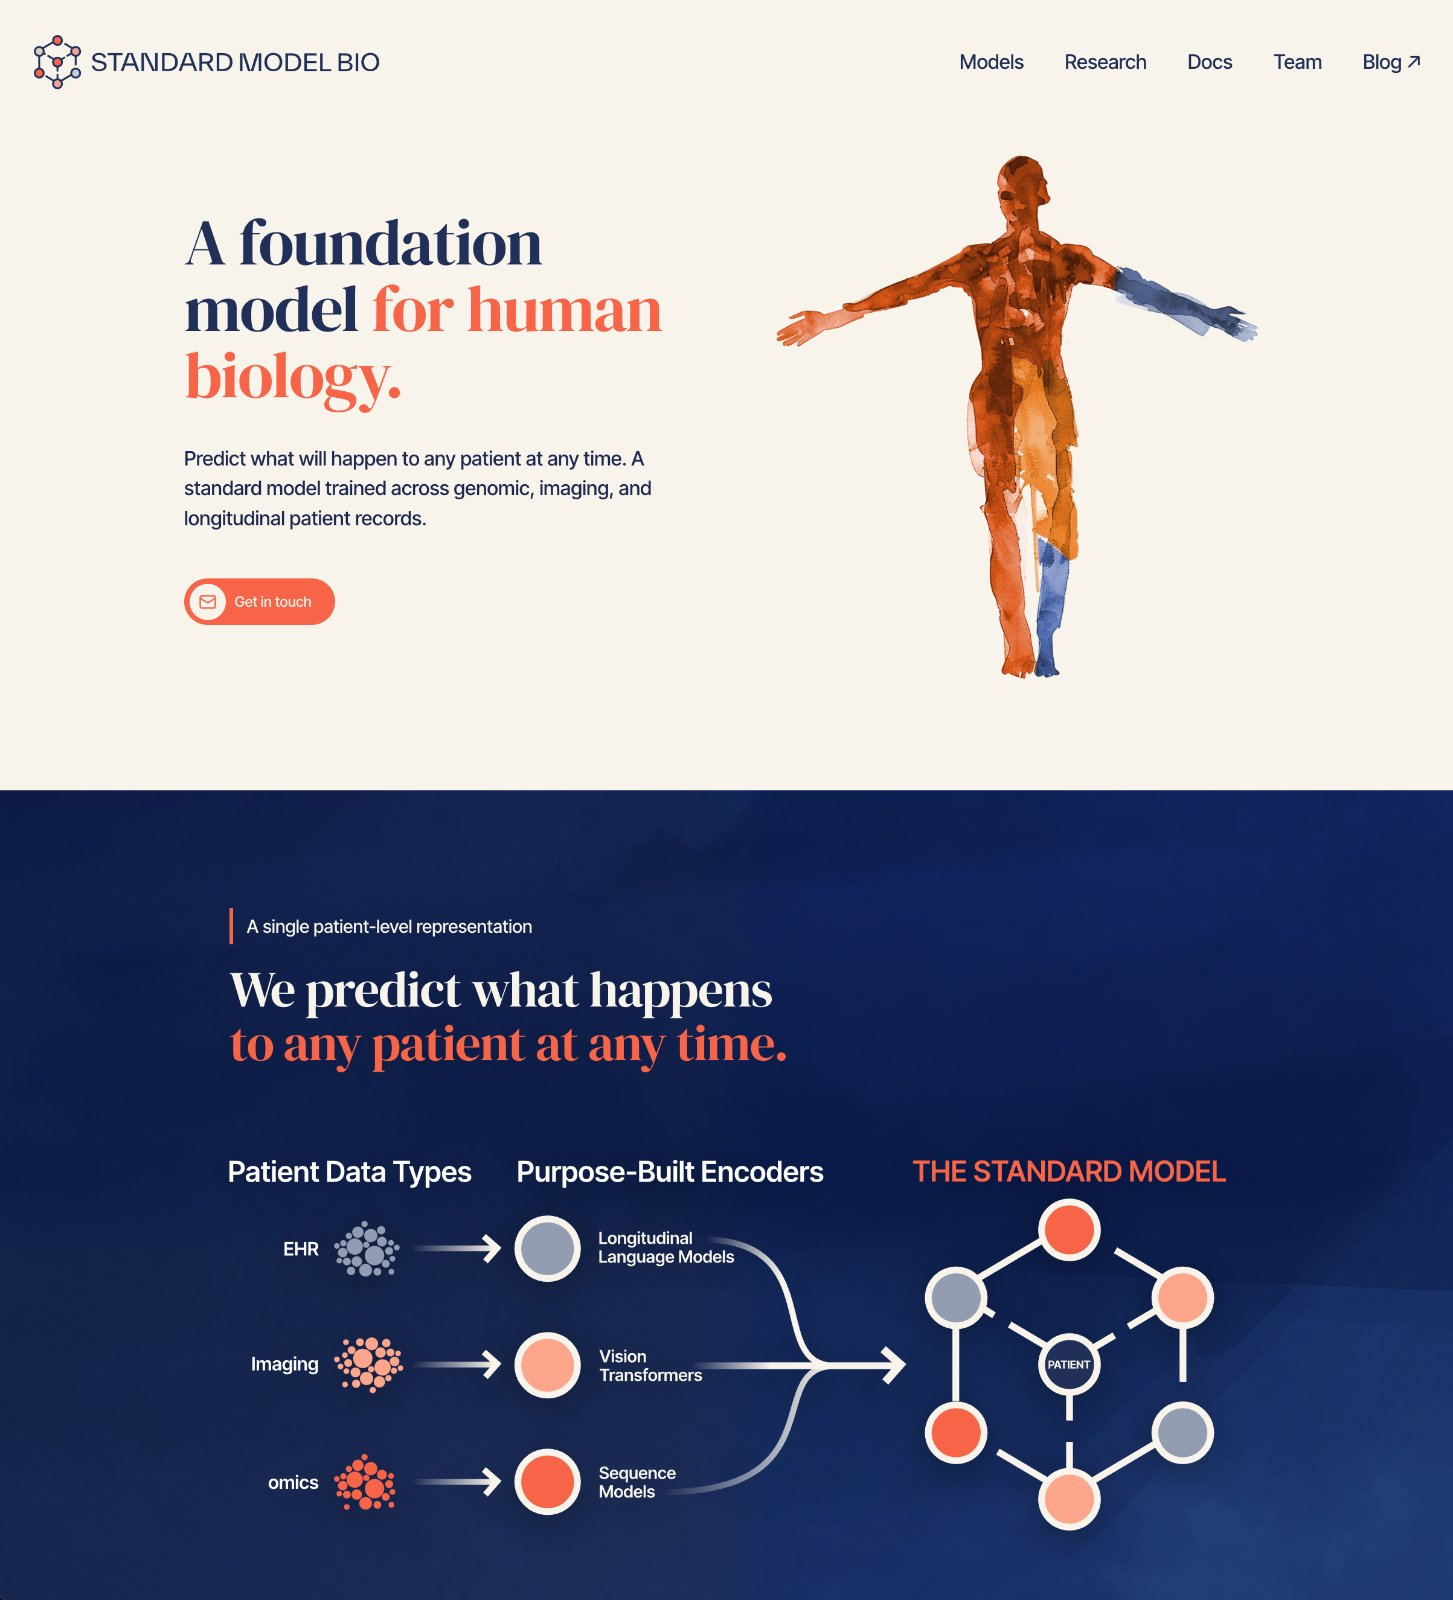
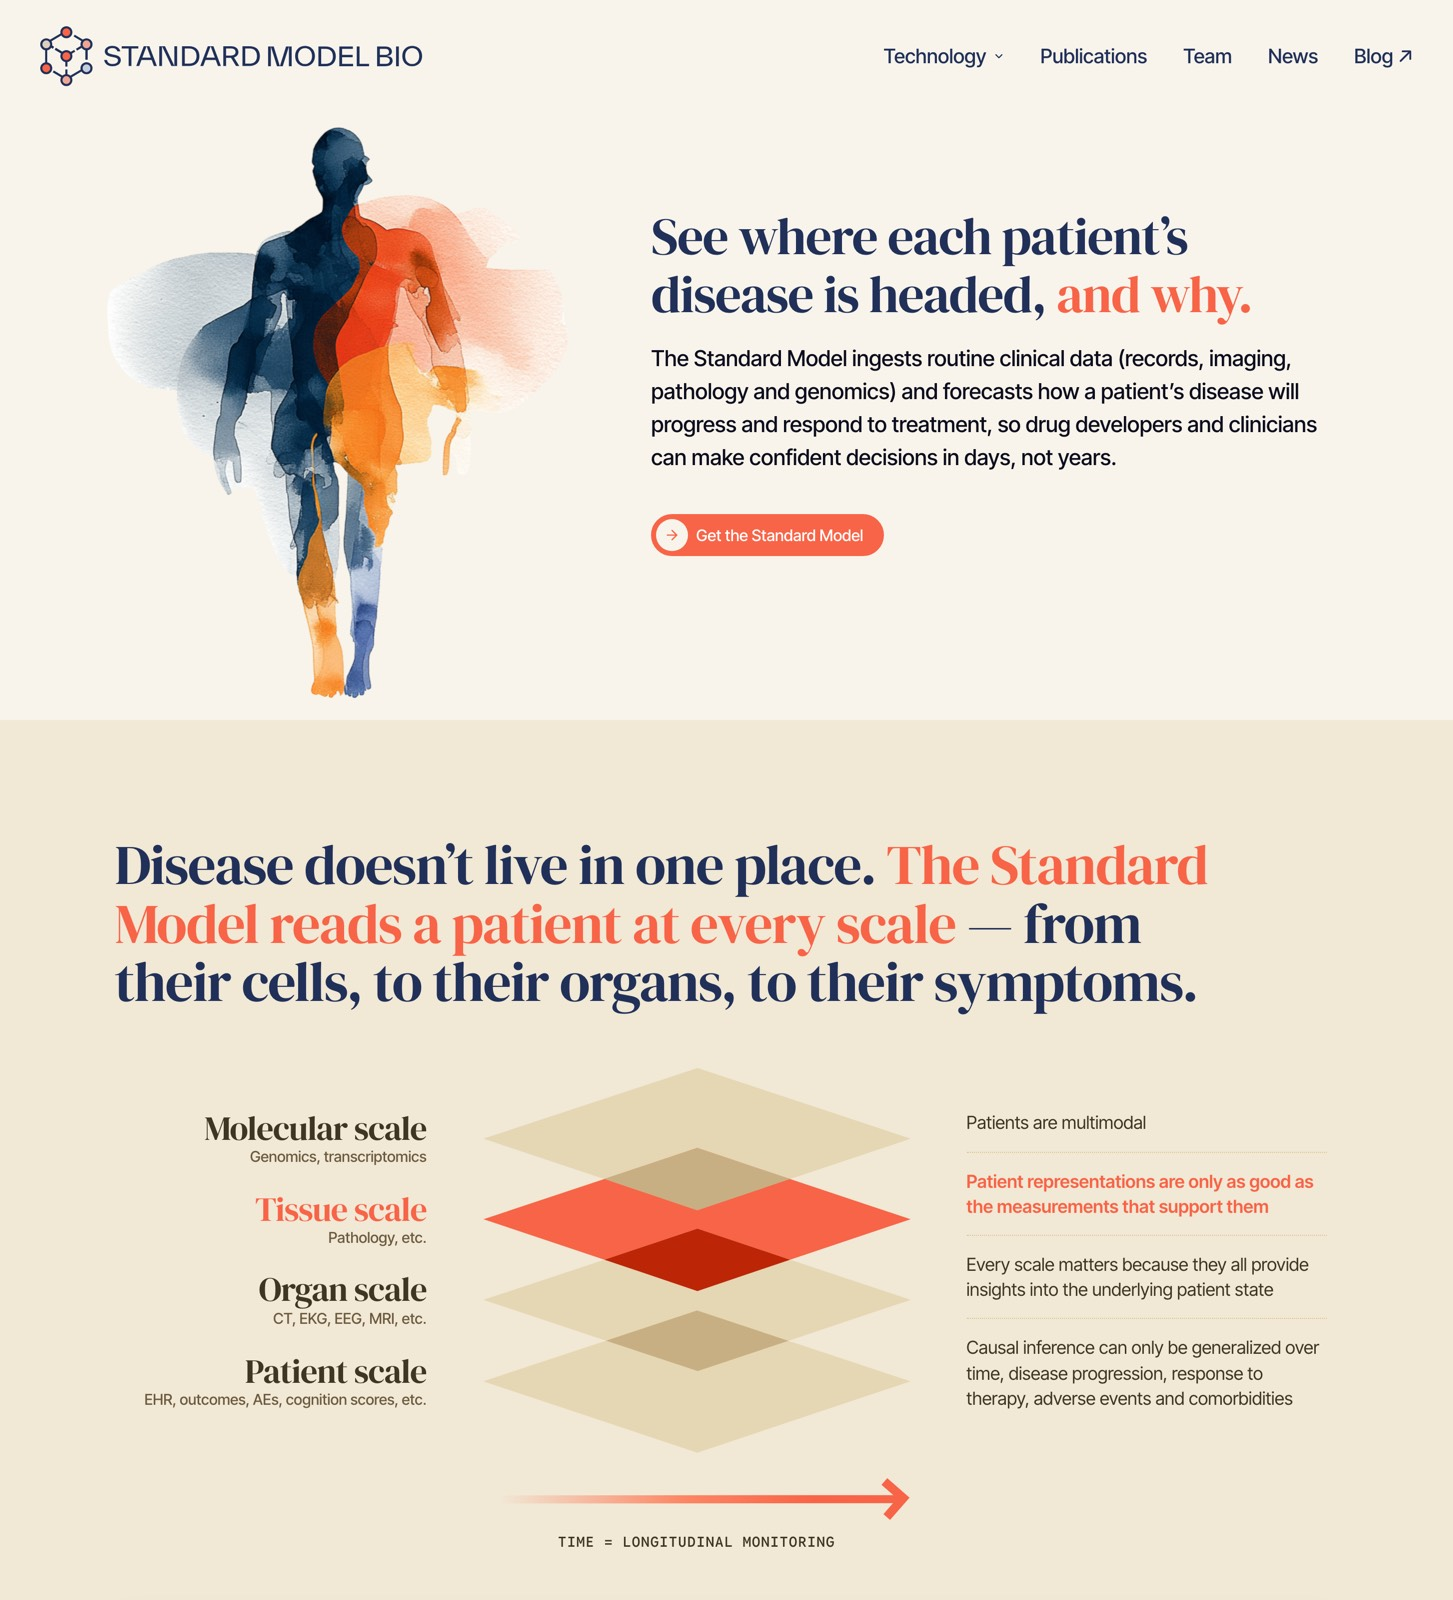
Refresh the website section with current standardmodel.bio screens
Replaces the five web-0*.jpg captures, which still showed the earlier
version of the site, with fresh 1453x1600 grabs of the live pages:
homepage, Standard Model V-2, TrialFront, news, team. Tile background
colors resampled to match.

Expands the blurb from one paragraph to three while keeping the
"From a Wix placeholder to a living flagship" arc — now covering the
growth in information architecture and UX, the CSS-animated inline SVG
diagrams, and the narrated film in its custom player.

diff --git a/standardmodel.html b/standardmodel.html
@@ -434,28 +434,32 @@ x-dc{display:none!important}
             <div data-dc-tpl="305" style="font-family: var(--f-mono); font-size: 15px; font-weight: 500; letter-spacing: 0.14em; text-transform: uppercase; color: var(--fg-mute); margin-bottom: 14px;"><span class="sc-interp">The Website</span></div>
             <h2 data-dc-tpl="306" style="margin: 0px; font-family: var(--f-head); font-weight: 600; font-size: clamp(24px,3vw,36px); line-height: 1.08; letter-spacing: -0.025em; color: var(--fg); text-wrap: pretty;"><span class="sc-interp">From a Wix placeholder to a living flagship.</span></h2>
             
-              <p data-dc-tpl="308" style="margin: 14px 0px 0px; font-size: 16px; line-height: 1.6; color: var(--fg-dim); text-wrap: pretty;"><span class="sc-interp">The first site was an off-the-shelf Wix template — enough to point investors somewhere real, but generic and unmistakably not the brand. I redesigned it screen by screen in Figma, folding in the identity — the molecular visuals, the full palette, the custom icon set — then moved from those designs into build with Claude Code. The site is a living document, not a hand-off: it evolves at the pace of the science while holding brand fidelity on every release.</span></p>
+              <p data-dc-tpl="308" style="margin: 14px 0px 0px; font-size: 16px; line-height: 1.6; color: var(--fg-dim); text-wrap: pretty;"><span class="sc-interp">The first site was an off-the-shelf Wix template — enough to point investors somewhere real, but generic and unmistakably not the brand. I redesigned it screen by screen in Figma, folding in the identity — the molecular visuals, the full palette, the custom icon set — then moved from those designs into build with Claude Code.</span></p>
+            
+              <p data-dc-tpl="308" style="margin: 14px 0px 0px; font-size: 16px; line-height: 1.6; color: var(--fg-dim); text-wrap: pretty;"><span class="sc-interp">It hasn't stopped growing since. A handful of marketing pages became a site with real architecture: a technology section for the model itself, a product section for TrialFront, an indexed publications library, a news and events feed, and team pages — held together by a navigation with dropdowns on desktop and a proper menu on small screens. I reworked the UX and UI around that expansion rather than bolting new pages onto the original layout, so the company can keep adding without the structure giving way.</span></p>
+            
+              <p data-dc-tpl="308" style="margin: 14px 0px 0px; font-size: 16px; line-height: 1.6; color: var(--fg-dim); text-wrap: pretty;"><span class="sc-interp">The craft deepened with it. The explanatory diagrams are inline SVG animated in CSS — the multi-scale stack assembling layer by layer, rows and nodes arriving in sequence — vector the whole way down, so they stay crisp at any size instead of being flattened into pictures. Narrated film now runs on the product page in a player I designed to the brand rather than defaulting to the browser's own controls. It is a living document, not a hand-off: it evolves at the pace of the science and holds brand fidelity on every release.</span></p>
             
           </div>
           <div data-dc-tpl="309" style="display: grid; grid-template-columns: repeat(5,1fr); gap: 18px;">
             
-              <div data-dc-tpl="311" style="aspect-ratio: 3/4; position: relative; background: rgb(141, 150, 169); border-radius: 12px; border: 1px solid var(--line); overflow: hidden; cursor: zoom-in; transition: box-shadow .15s ease;" class="scp8">
+              <div data-dc-tpl="311" style="aspect-ratio: 3/4; position: relative; background: rgb(234, 220, 206); border-radius: 12px; border: 1px solid var(--line); overflow: hidden; cursor: zoom-in; transition: box-shadow .15s ease;" class="scp8">
                 <img data-dc-tpl="312" src="assets/galleries/standardmodel/web-01.jpg" alt="From a Wix placeholder to a living flagship." loading="lazy" style="position: absolute; inset: 0; width: 100%; height: 100%; box-sizing: border-box; padding: 0px; object-fit: cover; object-position: top;">
               </div>
             
-              <div data-dc-tpl="311" style="aspect-ratio: 3/4; position: relative; background: rgb(134, 132, 142); border-radius: 12px; border: 1px solid var(--line); overflow: hidden; cursor: zoom-in; transition: box-shadow .15s ease;" class="scp8">
+              <div data-dc-tpl="311" style="aspect-ratio: 3/4; position: relative; background: rgb(146, 147, 159); border-radius: 12px; border: 1px solid var(--line); overflow: hidden; cursor: zoom-in; transition: box-shadow .15s ease;" class="scp8">
                 <img data-dc-tpl="312" src="assets/galleries/standardmodel/web-02.jpg" alt="From a Wix placeholder to a living flagship." loading="lazy" style="position: absolute; inset: 0; width: 100%; height: 100%; box-sizing: border-box; padding: 0px; object-fit: cover; object-position: top;">
               </div>
             
-              <div data-dc-tpl="311" style="aspect-ratio: 3/4; position: relative; background: rgb(187, 187, 185); border-radius: 12px; border: 1px solid var(--line); overflow: hidden; cursor: zoom-in; transition: box-shadow .15s ease;" class="scp8">
+              <div data-dc-tpl="311" style="aspect-ratio: 3/4; position: relative; background: rgb(212, 208, 205); border-radius: 12px; border: 1px solid var(--line); overflow: hidden; cursor: zoom-in; transition: box-shadow .15s ease;" class="scp8">
                 <img data-dc-tpl="312" src="assets/galleries/standardmodel/web-03.jpg" alt="From a Wix placeholder to a living flagship." loading="lazy" style="position: absolute; inset: 0; width: 100%; height: 100%; box-sizing: border-box; padding: 0px; object-fit: cover; object-position: top;">
               </div>
             
-              <div data-dc-tpl="311" style="aspect-ratio: 3/4; position: relative; background: rgb(132, 137, 148); border-radius: 12px; border: 1px solid var(--line); overflow: hidden; cursor: zoom-in; transition: box-shadow .15s ease;" class="scp8">
+              <div data-dc-tpl="311" style="aspect-ratio: 3/4; position: relative; background: rgb(219, 214, 210); border-radius: 12px; border: 1px solid var(--line); overflow: hidden; cursor: zoom-in; transition: box-shadow .15s ease;" class="scp8">
                 <img data-dc-tpl="312" src="assets/galleries/standardmodel/web-04.jpg" alt="From a Wix placeholder to a living flagship." loading="lazy" style="position: absolute; inset: 0; width: 100%; height: 100%; box-sizing: border-box; padding: 0px; object-fit: cover; object-position: top;">
               </div>
             
-              <div data-dc-tpl="311" style="aspect-ratio: 3/4; position: relative; background: rgb(240, 239, 237); border-radius: 12px; border: 1px solid var(--line); overflow: hidden; cursor: zoom-in; transition: box-shadow .15s ease;" class="scp8">
+              <div data-dc-tpl="311" style="aspect-ratio: 3/4; position: relative; background: rgb(50, 59, 99); border-radius: 12px; border: 1px solid var(--line); overflow: hidden; cursor: zoom-in; transition: box-shadow .15s ease;" class="scp8">
                 <img data-dc-tpl="312" src="assets/galleries/standardmodel/web-05.jpg" alt="From a Wix placeholder to a living flagship." loading="lazy" style="position: absolute; inset: 0; width: 100%; height: 100%; box-sizing: border-box; padding: 0px; object-fit: cover; object-position: top;">
               </div>
             

diff --git a/index.html b/index.html
@@ -744,8 +744,10 @@ class Component extends DCLogic {
       "Sixty marks spanning the company's entire world — imaging, molecular biology, data and compute, and the clinical layer. One line weight, one corner radius, one palette, so any combination reads as a single voice across decks, the site, and the product. Unmistakably theirs — built from the science it describes."],
       files:[['icons-01.jpg','#f8f4ec'],['icons-02.jpg','#f8f4ec']] },
     { kicker:'The Website', title:'From a Wix placeholder to a living flagship.', cols:'repeat(5,1fr)', ratio:'3/4', fit:'cover', fitPos:'top', paras:[
-      "The first site was an off-the-shelf Wix template — enough to point investors somewhere real, but generic and unmistakably not the brand. I redesigned it screen by screen in Figma, folding in the identity — the molecular visuals, the full palette, the custom icon set — then moved from those designs into build with Claude Code. The site is a living document, not a hand-off: it evolves at the pace of the science while holding brand fidelity on every release."],
-      files:[['web-01.jpg','#8d96a9'],['web-02.jpg','#86848e'],['web-03.jpg','#bbbbb9'],['web-04.jpg','#848994'],['web-05.jpg','#f0efed']] },
+      "The first site was an off-the-shelf Wix template — enough to point investors somewhere real, but generic and unmistakably not the brand. I redesigned it screen by screen in Figma, folding in the identity — the molecular visuals, the full palette, the custom icon set — then moved from those designs into build with Claude Code.",
+      "It hasn't stopped growing since. A handful of marketing pages became a site with real architecture: a technology section for the model itself, a product section for TrialFront, an indexed publications library, a news and events feed, and team pages — held together by a navigation with dropdowns on desktop and a proper menu on small screens. I reworked the UX and UI around that expansion rather than bolting new pages onto the original layout, so the company can keep adding without the structure giving way.",
+      "The craft deepened with it. The explanatory diagrams are inline SVG animated in CSS — the multi-scale stack assembling layer by layer, rows and nodes arriving in sequence — vector the whole way down, so they stay crisp at any size instead of being flattened into pictures. Narrated film now runs on the product page in a player I designed to the brand rather than defaulting to the browser's own controls. It is a living document, not a hand-off: it evolves at the pace of the science and holds brand fidelity on every release."],
+      files:[['web-01.jpg','#eadcce'],['web-02.jpg','#92939f'],['web-03.jpg','#d4d0cd'],['web-04.jpg','#dbd6d2'],['web-05.jpg','#323b63']] },
     { kicker:'Social', title:'An always-on social presence.', cols:'repeat(auto-fill,minmax(240px,1fr))', ratio:'16/10', fit:'cover', paras:[
       "The system extends into social: a templated kit of profile marks, announcement cards, and quote posts with a consistent grid and type hierarchy — campaign-ready assets the team can ship on cadence while the brand reads as one voice on every platform."],
       files:[['social-01.jpg','#f8f4ec'],['social-02.jpg','#f8f4ec'],['social-03.jpg','#bab9b6'],['social-04.jpg','#596685']] },
